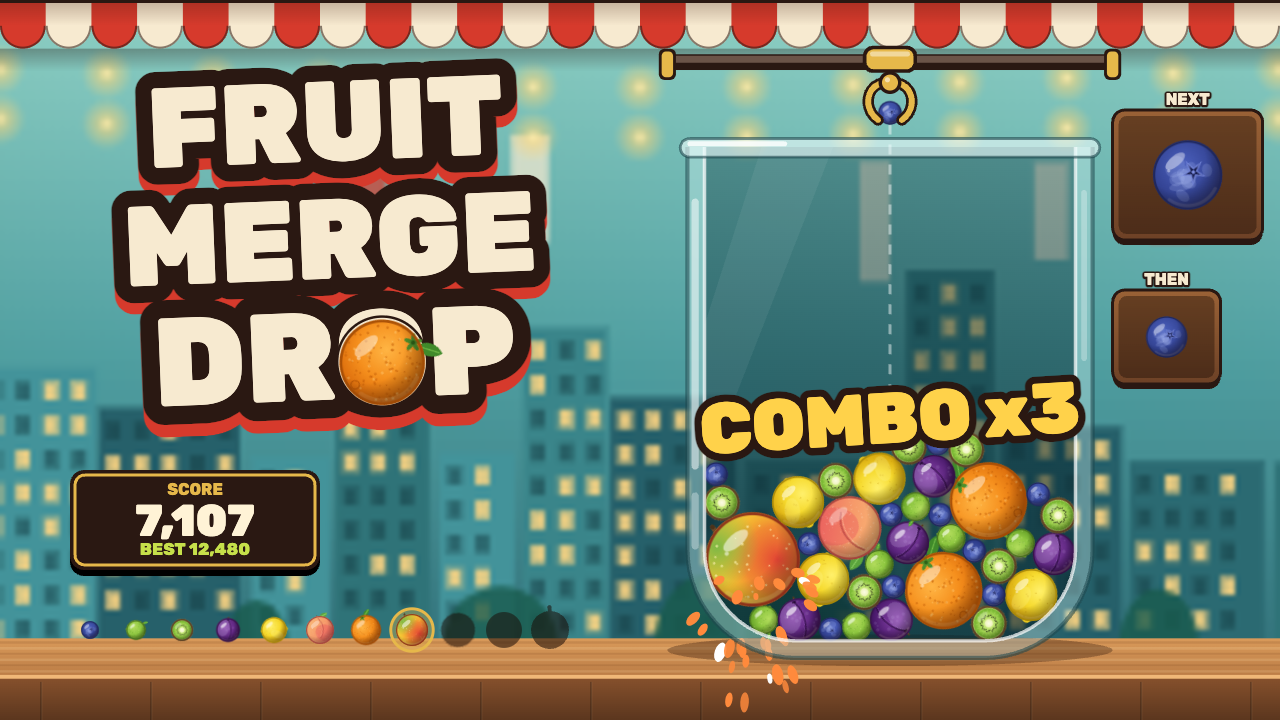
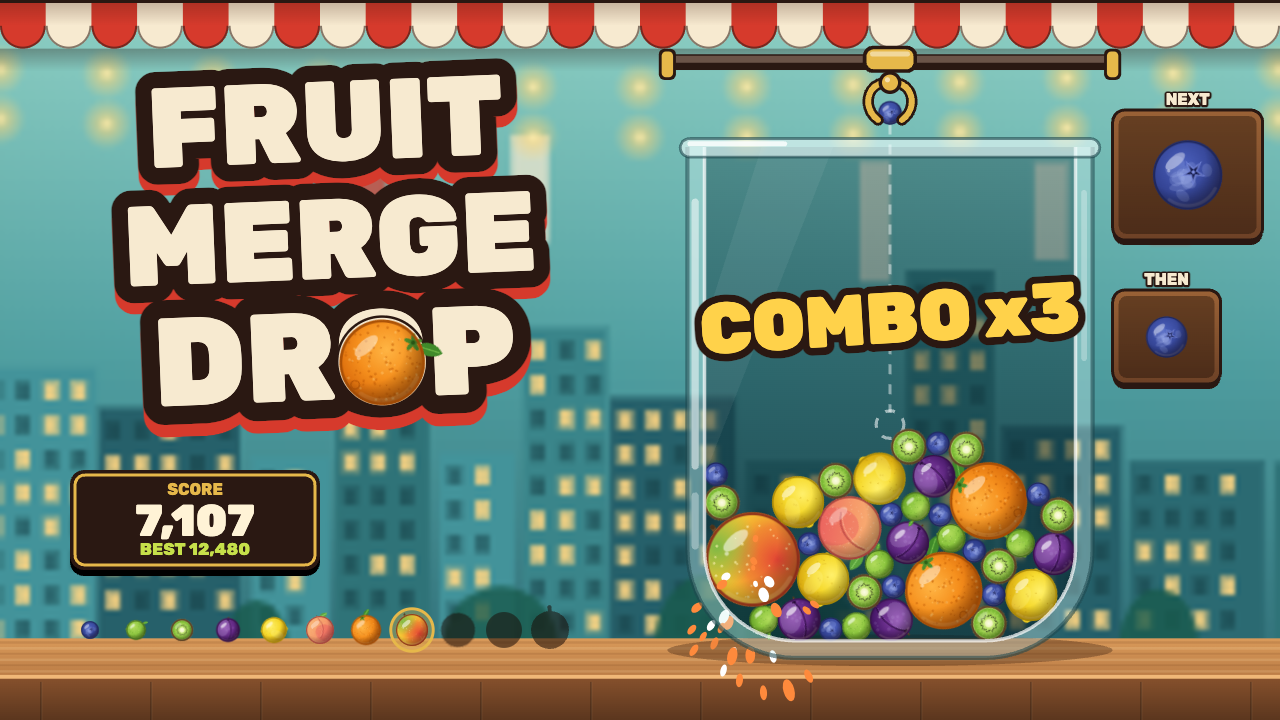
Combo cap, ladder lights dropped fruit, safer poster error output, store art refresh

Changed region(s): [[0.5312, 0.3667, 0.875, 0.6417], [0.5312, 0.7944, 0.6562, 1.0]]

diff --git a/game/poster.js b/game/poster.js
@@ -56,8 +56,10 @@ export async function runPoster(name) {
     await drawPoster(name);
   } catch (err) {
     console.error(err);
-    document.body.style.color = '#fff';
-    document.body.insertAdjacentHTML('beforeend', `<pre style="position:fixed;left:8px;top:8px;font:14px monospace">${String(err && err.stack).replace(/</g, '&lt;')}</pre>`);
+    const pre = document.createElement('pre');
+    pre.style.cssText = 'position:fixed;left:8px;top:8px;margin:0;font:14px monospace;color:#fff';
+    pre.textContent = String(err && err.stack);
+    document.body.append(pre);
   }
 }
 

diff --git a/game/main.js b/game/main.js
@@ -41,7 +41,7 @@ async function boot() {
   } catch {}
 
   const layout = () => {
-    const pr = Math.min(ow?.settings?.pixelRatio?.(2) ?? window.devicePixelRatio ?? 1, 3);
+    const pr = ow?.settings?.pixelRatio ? ow.settings.pixelRatio(2) : Math.min(window.devicePixelRatio || 1, 2);
     const W = Math.max(200, window.innerWidth || document.documentElement.clientWidth || 390);
     const H = Math.max(200, window.innerHeight || document.documentElement.clientHeight || 844);
     R.resize(W, H, pr);

diff --git a/game/config.js b/game/config.js
@@ -48,7 +48,7 @@ export function comboMultiplier(n) {
   if (n <= 1) return 1;
   if (n === 2) return 1.5;
   if (n === 3) return 2;
-  return Math.min(10, n - 1);
+  return Math.min(6, n - 1);
 }
 
 export const BADGES = {

diff --git a/DESIGN.md b/DESIGN.md
@@ -32,7 +32,7 @@ Type: Rubik 800/900 (Google Fonts) for everything; numerals included.
 - Drops: the five smallest tiers, weighted 36/28/20/10/6. The next fruit and the one after ("then") are shown, the second smaller.
 - Drop cooldown 0.45 s (the claw is empty and closes, then the next fruit grows in). A drop asked for in the last 0.2 s goes as soon as it is ready.
 - Merge: two touching fruit of the same tier become the next tier at their midpoint; each fruit is in at most one merge per frame (three touching merge as one pair); a new fruit can't merge again for 0.14 s so chains read as steps; a push on neighbours scaled by tier.
-- Score: tier k merge = k(k+1) x chain multiplier (chain of n merges, each within 0.9 s of the last: x1, x1.5, x2, then n-1 up to x10). The "COMBO xN" callout shows the chain length N and the points multiplier below it. Two Jackfruits burst: +500, a large shove, slow motion.
+- Score: tier k merge = k(k+1) x chain multiplier (chain of n merges, each within 0.9 s of the last: x1, x1.5, x2, then n-1 up to x6). The "COMBO xN" callout shows the chain length N and the points multiplier below it. Two Jackfruits burst: +500, a large shove, slow motion.
 - Lose: a settled fruit (not a fresh one still falling or moving faster than 90 px/s) with its top above the danger line for 2.5 s. The countdown drains at twice the rate it fills. The line appears when the pile is within 90 units of it, pulses and counts down when active, with a rising tone.
 - Game over: the fruit pop one by one, then the card (score, best, biggest fruit, merges, longest chain, Retry).
 - Saves: an unfinished jar (every fruit's tier, position and angle, score, held/next/then, seeded RNG state) in `ow.save('jar')`, stats and badge flags in `ow.save('stats')`. Leaderboard `high-score`.
